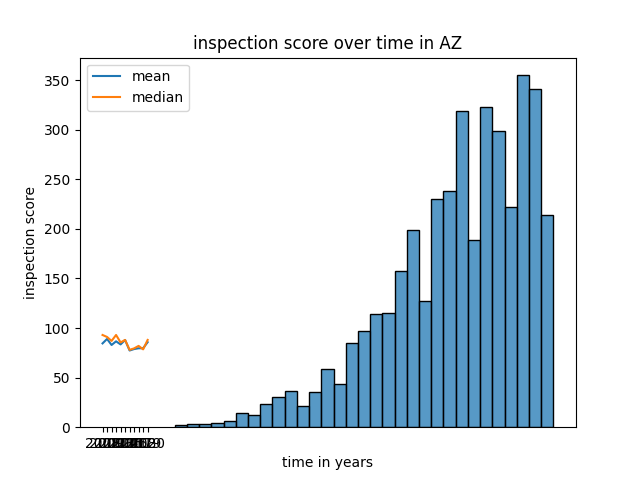
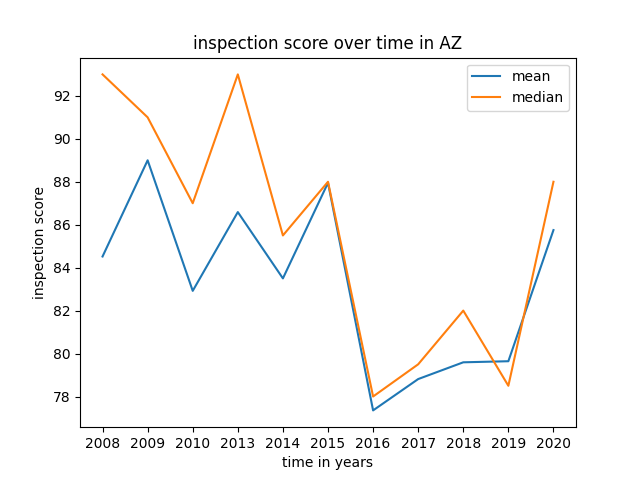
fix figure number bugs

diff --git a/scripts/score_histogram.py b/scripts/score_histogram.py
@@ -1,0 +1,91 @@
+import pandas as pd
+import numpy as np
+import seaborn as sns
+import plotly.express 
+import matplotlib.pyplot as plt
+import csv
+import os
+
+#number of decimals to keep
+NUM_DECIMAL = 2
+
+#header for year
+HEADER_YEAR = ['year', 'count', 'mean', 'std', 'min', '25%', '50%', '75%', 'max']
+
+#header for state
+HEADER_STATE = ['state', 'count', 'mean', 'std', 'min', '25%', '50%', '75%', 'max']
+
+
+if __name__ == '__main__':
+    #read the dataset
+    df = pd.read_csv('data/locations_inspectionscores_forMeri_Nov.csv')    
+    
+    #inspection score data
+    inspection_score = df['INSPECTION_SCORE']
+    
+    #statistic CSV table -- by year
+    stat_file = open('figures/stats_inspection_score_year.csv', 'w') 
+    
+    stat_writer = csv.writer(stat_file)
+    
+    stat_writer.writerow(HEADER_YEAR)
+
+    #overall inspection score statistics
+    stats = inspection_score.describe().round(NUM_DECIMAL).to_list()
+    
+    stats.insert(0, 'overall')
+    
+    stat_writer.writerow(stats)
+
+    #get all available years and get them sorted
+    all_years = sorted(list(set(df['inspection_year'].astype(np.int32))))
+
+    #FIXME: remove "2005" outlier value
+    all_years.remove(2005); 
+
+    #each-year inspection score statistics
+    for yr in all_years:
+        inspection_score_each = df.loc[df['inspection_year'] == yr]['INSPECTION_SCORE']
+        
+        stats_each = inspection_score_each.describe().round(NUM_DECIMAL).to_list()
+        
+        stats_each.insert(0, yr)
+        
+        stat_writer.writerow(stats_each)
+    
+    #close the file
+    stat_file.close()
+
+    #get all available states and get them sorted
+    all_states = sorted(list(set(df['STATE_NAME.x'])))
+
+    #statistic CSV table -- by state
+    stat_file = open('figures/stats_inspection_score_state.csv', 'w') 
+    
+    stat_writer = csv.writer(stat_file)
+    
+    stat_writer.writerow(HEADER_STATE)
+
+    #each-state inspection score statistics
+    for st in all_states:
+        inspection_score_each = df.loc[df['STATE_NAME.x'] == st]['INSPECTION_SCORE']
+
+        stats_each = inspection_score_each.describe().round(NUM_DECIMAL).to_list()
+        
+        stats_each.insert(0, st)
+        
+        stat_writer.writerow(stats_each)
+    
+    stat_file.close()
+
+    #single point control of figure number
+    figure_number = 0
+
+    #histograms of inspection scores with each individual year
+    for yr in all_years:
+        inspection_score_each = df.loc[df['inspection_year'] == yr]['INSPECTION_SCORE']
+        plt.figure(f'{figure_number}')
+        sns.histplot(inspection_score_each)
+        plt.title(f'inspection score in {yr}')
+        plt.savefig(f'figures/dist_by_year/histagram/hist_{yr}.png')
+        figure_number += 1

diff --git a/scripts/score_lineplot.py b/scripts/score_lineplot.py
@@ -18,7 +18,7 @@ HEADER_STATE = ['state', 'count', 'mean', 'std', 'min', '25%', '50%', '75%', 'ma
 
 if __name__ == '__main__':
     #read the dataset
-    df = pd.read_csv('data/locations_inspectionscores_forMeri_Nov.csv')
+    df = pd.read_csv('data/locations_inspectionscores_forMeri_Nov.csv')    
     
     #inspection score data
     inspection_score = df['INSPECTION_SCORE']
@@ -78,15 +78,8 @@ if __name__ == '__main__':
     
     stat_file.close()
 
-    #histograms of inspection scores with each individual year
-    i = 0
-    for yr in all_years:
-        inspection_score_each = df.loc[df['inspection_year'] == yr]['INSPECTION_SCORE']
-        plt.figure(f'{i}')
-        sns.histplot(inspection_score_each)
-        plt.title(f'inspection score in {yr}')
-        plt.savefig(f'figures/dist_by_year/histagram/hist_{yr}.png')
-        i += 1
+    #single point control of figure number
+    figure_number = 0
 
     #inspection scores changed over years
     mean_years = pd.DataFrame()
@@ -95,7 +88,7 @@ if __name__ == '__main__':
         another_year = pd.DataFrame({f'{yr}': [inspection_score_each.mean()]})
         mean_years = pd.concat([mean_years, another_year], axis=1)
 
-    plt.figure(f'{i}')
+    plt.figure(f'{figure_number}')
     plt.plot(mean_years.columns.to_list(), mean_years.iloc[0, ], label="mean")
     plt.xlabel('time in years')
     plt.ylabel('inspection score')
@@ -111,10 +104,11 @@ if __name__ == '__main__':
     plt.plot(median_years.columns.to_list(), median_years.iloc[0, ], label="median")
     plt.legend()
     plt.savefig('figures/dist_by_year/line_plot/US.png')
-    i += 1
+
+    #update figure number from 0 to 1
+    figure_number += 1
 
     #inspection scores changed over years -- for each state
-    i = 0
     for st in all_states:
         #select state-specific dataframe
         temp_df = df.loc[df['STATE_NAME.x'] == st]
@@ -131,8 +125,8 @@ if __name__ == '__main__':
             mean_years = pd.concat([mean_years, another_year], axis=1)
 
         #use different figures to avoid superimposing
-        plt.figure(i)
-        i += 1
+        plt.figure(f'{figure_number}')
+        figure_number += 1
         
         plt.plot(mean_years.columns.to_list(), mean_years.iloc[0, ], label="mean")
         plt.xlabel('time in years')
